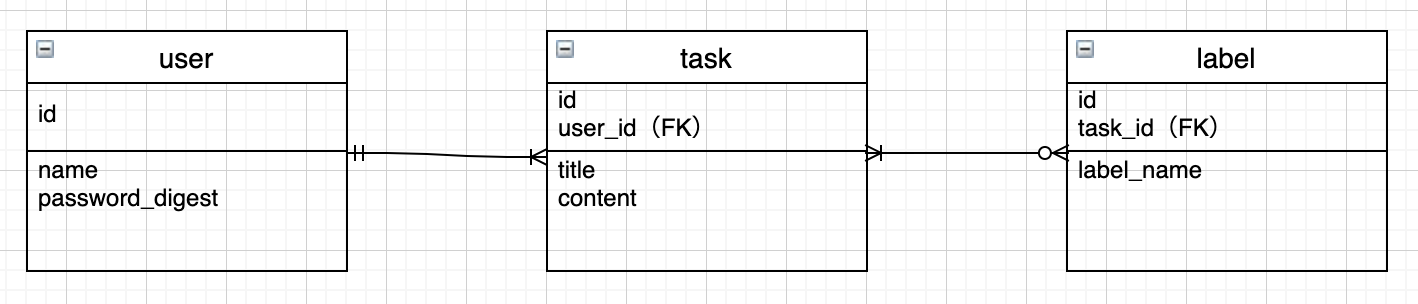
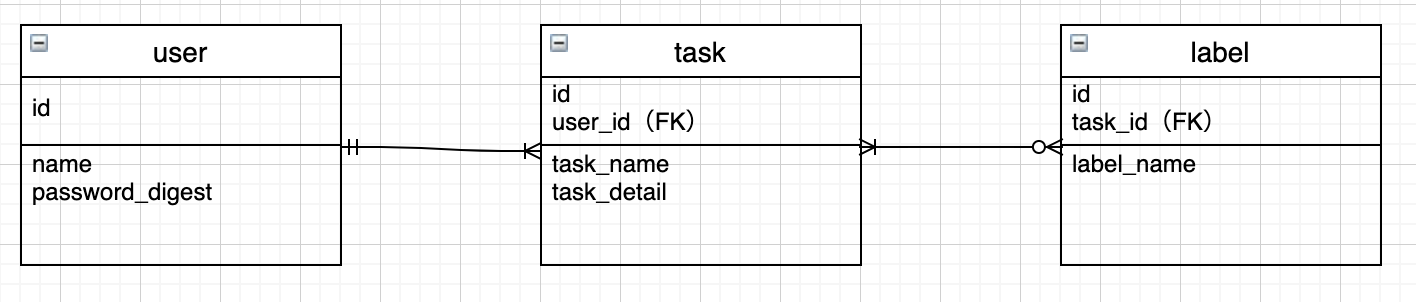
docsディレクトリ、README.mdファイルでtaskテーブルのカラム名変更

Changed region(s): [[0.0, 0.0, 1.0, 0.9238]]

diff --git a/README.md b/README.md
@@ -5,8 +5,8 @@ password_digest, string
 
 Task  
 id, integer  
-title, string  
-content, text  
+task_name, string  
+task_detail, text  
 user_id, integer
 
 Label  
